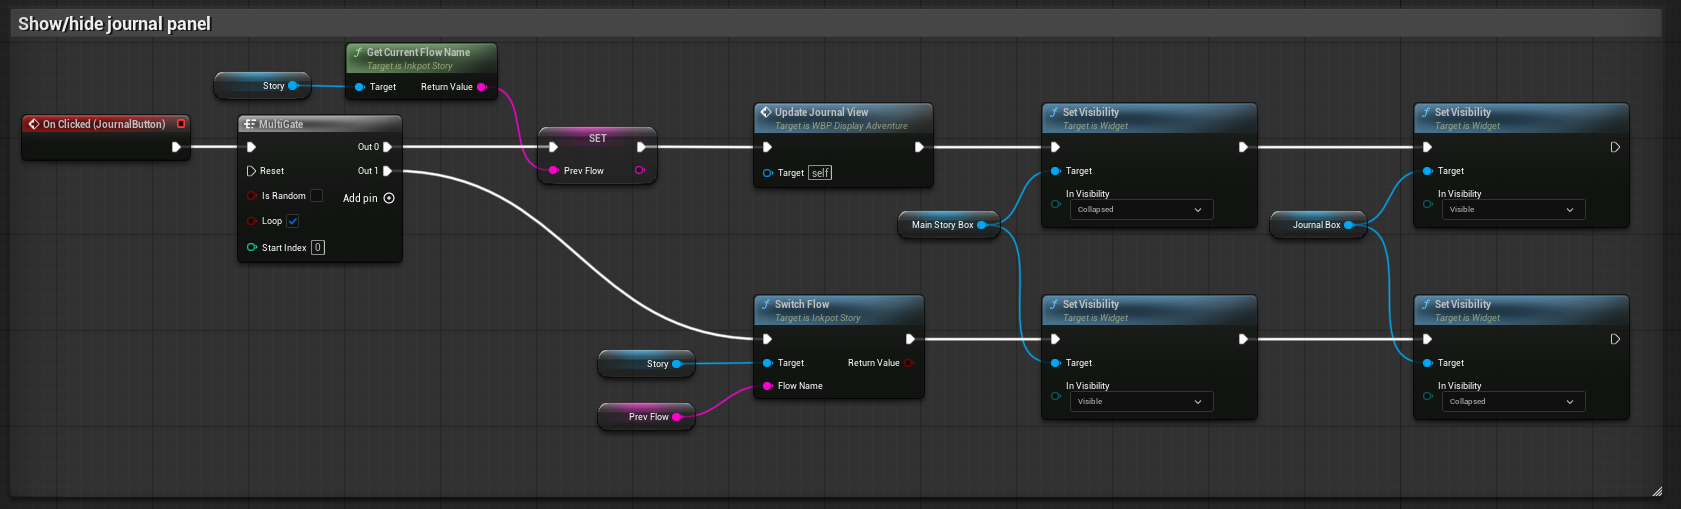
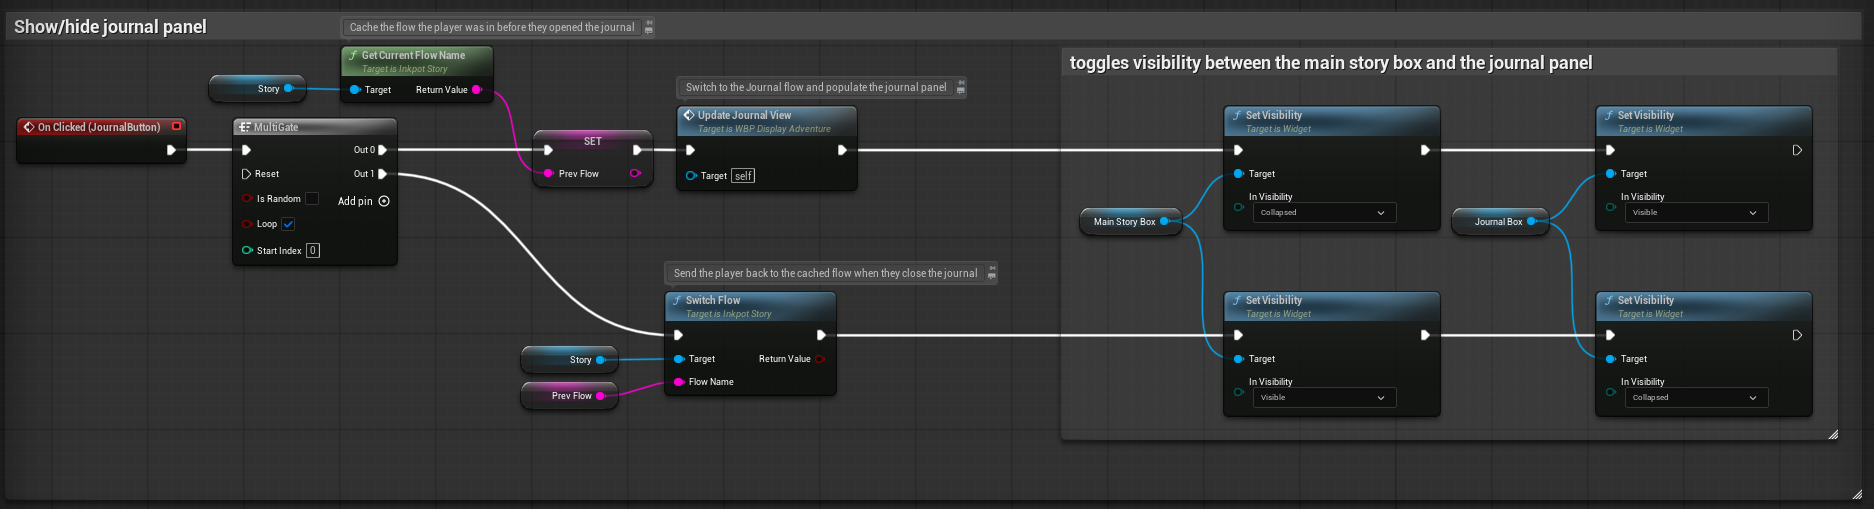
Adventure Readme: commented screenshots and boxes
Added commented screenshots to the Adventure Readme, and styled the "Inkpot Concept" sections as "Tips" in Github-Flavored Markdown so they're easier to distinguish.

diff --git a/README-AdventureDemo.md b/README-AdventureDemo.md
@@ -82,48 +82,46 @@ The best way to avoid assumptions about the route a player has taken through the
 
 If you take a look at `AdventureDemo.ink`, you'll see that Quest LISTs are being queried throughout--especially in `if` statements at the tops of knots and stitches. This is the only flow control happening within ink: Unreal directs the flow to the knot or stitch, and these `if` statements route to the appropriate section based on the player's LIST states.
 
----
-
-**Inkpot Concept: Setting Variables**
-For the most part, the various state LISTs in this demo are being handled within Ink: new states are added when particular lines of Ink are run, and states are queried to direct to the correct content in a knot or stitch. Handling Ink variables in Ink should be preferred where possible, because it's usually simpler to manage.
-
-But where needed, Ink variables can be edited directly from Unreal. The Adventure Demo level blueprint is using Inkpot nodes to directly change variables in Ink in two places.
-
-Our first directly-set variable is `clocktime`. The Ink runtime has no way to access the system clock, so while we use the variable in Ink, we can't set it there. We declare it in Ink as an empty string, then update it from the level BP to a string of the player's current system time whenever they speak to Emmy.
-
-We do this with a `set value` node:
-
-![Screenshot of the Adventure Demo Level Blueprint showing a Set Value node connected to a Switch Flow to Path node. A collapsed "Get Time String" graph pulls the system clock time as a string and sets the Clocktime variable](Documentation/AD_SetValueClocktime.png)
-
-The second place we set variables directly is when the player overlaps the `Trigger Capsules` for the three shapes. `On Event Begin Overlap` nodes for these capsules are calling a custom `Add to list` function and adding each shape to the player's inventory (an Ink LIST) before switching to the FindShapes flow to show the player the appropriate quest text:
-
-![Screenshot from the Adventure Demo level blueprint, showing Inkpot Add to List nodes connected to On Actor Begin Overlap events for the trigger capsules surrounding the three shapes in the level. Each one adds the relevant shape from the Items list to the InventoryItems list](Documentation/AD_AddToList.png)
-
-Here's the `Add to List` function, which uses the Inkpot functions `Get List`, `To String Array`, and `Make Inkpot List from String Array` to pull the list from Ink and adds the indicated item:
-
-![](Documentation/AD_AddToListFunction.png)
-
-Once the player gets all three shapes, `QuestFindShapes.GotShapes` should be set to `true`. We could do this from Unreal by querying the Inventory LIST and checking if all three shapes are present--but since the blueprint always directs to `Quests.FindShapes_quest` after the player interacts with a shape, it's easier to set the state within Ink instead of doing additional round-trips to Unreal and back:
-
-```ink
-= FindShapes_quest
-
-{
-    - QuestFindShapes ? ToldBlue:
-        [...]
-    - InventoryItems ? (cone, cube, sphere):
-        ~ QuestFindShapes += GotShapes
-        [...]
-    - QuestFindShapes ? BlueAsked:
-        [...]
-}
-
--> DONE
-```
-
-**In summary**: manage Ink variables within Ink wherever practical--but don't be afraid to use Inkpot when a variable needs to change based on interactions with the world (as in our shapes), or when Ink lacks the functionality to do what you need. 
-
----
+>[!TIP]
+>**Inkpot Concept: Setting Variables**
+>
+>For the most part, the various state LISTs in this demo are being handled within Ink: new states are added when particular lines of Ink are run, and states are queried to direct to the correct content in a knot or stitch. Handling Ink variables in Ink should be preferred where possible, because it's usually simpler to manage.
+>
+>But where needed, Ink variables can be edited directly from Unreal. The Adventure Demo level blueprint is using Inkpot nodes to directly change variables in Ink in two places.
+>
+>Our first directly-set variable is `clocktime`. The Ink runtime has no way to access the system clock, so while we use the variable in Ink, we can't set it there. We declare it in Ink as an empty string, then update it from the level BP to a string of the player's current system time whenever they speak to Emmy.
+>
+>We do this with a `set value` node:
+>
+>![Screenshot of the Adventure Demo Level Blueprint showing a Set Value node connected to a Switch Flow to Path node. A collapsed "Get Time String" graph pulls the system clock time as a string and sets the Clocktime variable](Documentation/AD_SetValueClocktime.png)
+>
+>The second place we set variables directly is when the player overlaps the `Trigger Capsules` for the three shapes. `On Event Begin Overlap` nodes for these capsules are calling a custom `Add to list` function and adding each shape to the player's inventory (an Ink LIST) before switching to the FindShapes flow to show the player the appropriate quest text:
+>
+>![Screenshot from the Adventure Demo level blueprint, showing Inkpot Add to List nodes connected to On Actor Begin Overlap events for the trigger capsules surrounding the three shapes in the level. Each one adds the relevant shape from the Items list to the InventoryItems list](Documentation/AD_AddToList.png)
+>
+>Here's the `Add to List` function, which uses the Inkpot functions `Get List`, `To String Array`, and `Make Inkpot List from String Array` to pull the list from Ink and adds the indicated item:
+>
+>![Screenshot of a Blueprint function that adds an item to an Ink list using Inkpot](Documentation/AD_AddToListFunction.png)
+>
+>Once the player gets all three shapes, `QuestFindShapes.GotShapes` should be set to `true`. We could do this from Unreal by querying the Inventory LIST and checking if all three shapes are present--but since the blueprint always directs to `Quests.FindShapes_quest` after the player interacts with a shape, it's easier to set the state within Ink instead of doing additional round-trips to Unreal and back:
+>
+>```ink
+>= FindShapes_quest
+>
+>{
+>    - QuestFindShapes ? ToldBlue:
+>        [...]
+>   - InventoryItems ? (cone, cube, sphere):
+>       ~ QuestFindShapes += GotShapes
+>       [...]
+>   - QuestFindShapes ? BlueAsked:
+>       [...]
+>}
+>
+>-> DONE
+>```
+>
+>**In summary**: manage Ink variables within Ink wherever practical--but don't be afraid to use Inkpot when a variable needs to change based on interactions with the world (as in our shapes), or when Ink lacks the functionality to do what you need. 
 
 ### Interactions are knots and stitches
 
@@ -139,21 +137,19 @@ This design pattern connects each individual trigger event in the game world to 
 
 When one of these events happens in the game, Unreal will use the knot or stitch to pull the correct content. The player's path through that section of the Ink file will be managed within Ink. In order to take full advantage of flow management, each trigger (or related group of triggers, such as picking up shapes) should have its own flow.
 
----
+>[!TIP]
+>**Inkpot Concept: Switch Flow, Switch Path, and Switch Flow To Path**
+>
+>[The Inkpot Demo Readme](README.md) documents how to use flows to run separate sections of the Ink file in parallel.
+>
+>Players can move back and forth between flows and Inkpot will save their place so they can pick up where they left off when they return.
+>
+>You can switch flows using the Inkpot `Switch Flow` node, and you can direct the current flow to a particular knot or stitch using `Choose Path`. But the Inkpot Demo level has a handy function that will do both at once, called `Switch Flow To Path`:
+>
+>![A screenshot of the Switch Flow To Path function from the Inkpot Demo level, which switches the flow, sets the new path, and then continues](Documentation/AD_SwitchFlowToPathFunction.png)
+>
+>`Switch Flow To Path` is a handy shortcut you'll probably want to add to your project--the Adventure Demo design patterns use it often.
 
-**Inkpot Concept: Switch Flow, Switch Path, and Switch Flow To Path**
-
-[The Inkpot Demo Readme](README.md) documents how to use flows to run separate sections of the Ink file in parallel.
-
-Players can move back and forth between flows and Inkpot will save their place so they can pick up where they left off when they return.
-
-You can switch flows using the Inkpot `Switch Flow` node, and you can direct the current flow to a particular knot or stitch using `Choose Path`. But the Inkpot Demo level has a handy function that will do both at once, called `Switch Flow To Path`:
-
-![A screenshot of the Switch Flow To Path function from the Inkpot Demo level, which switches the flow, sets the new path, and then continues](Documentation/AD_SwitchFlowToPathFunction.png)
-
-`Switch Flow To Path` is a handy shortcut you'll probably want to add to your project--the Adventure Demo design patterns use it often.
-
----
 
 #### Knot or Stitch?
 In the demo, we are using both knots and stitches as interaction paths accessed directly from Unreal.
@@ -177,37 +173,33 @@ The Dialogue pattern in this demo is using trigger volumes to initiate dialogue 
 
 ![A screenshot of the level BP, showing OnEventBeginOverlap and EndOverlap nodes that call SwitchFlowToPath functions for each NPC's flow and knot](Documentation/AD_SwitchFlowToPathLevelBP.png)
 
----
-
-**Inkpot Concept: Switch Flow vs Switch Flow to Path**
-Flows allow Inkpot to keep track of multiple threads within the story--such as multiple NPC conversations--so that players can move between sections of the narrative without losing their place.
-
-In this example, however, we're using `Switch Flow To Path` for most of our flow switches, which always directs the flow to the top of the associated knot or stitch, rather than continuing where the player left off.
-
-Because the NPC knots contain multiple conversations, we want the flow to be directed back to the routing logic at the top of the knot to pick the appropriate conversation based on the player's LIST states. The same applies to pulling the correct quest text.
-
-But this demo doesn't lock player movement, so players can wander off in the middle of conversations--and when they come back, Ink will start the conversation again if the player's LIST states haven't changed.
-
-If you look at the `NPC_Emmy.intro` stitch, you'll see we're using the named line `EmmyGivesJournal` as a checkpoint so that Emmy doesn't introduce herself again if the player moves away after the intro.
-
----
-
 The logic to update the UI with each line of dialogue and handle player choices lives in `WBP_Display_Adventure`, and is largely unchanged from the Inkpot Demo level.
 
----
+>[!TIP]
+>**Inkpot Concept: Switch Flow vs Switch Flow to Path**
+>
+>Flows allow Inkpot to keep track of multiple threads within the story--such as multiple NPC conversations--so that players can move between sections of the narrative without losing their place.
+>
+>In this example, however, we're using `Switch Flow To Path` for most of our flow switches, which always directs the flow to the top of the associated knot or stitch, rather than continuing where the player left off.
+>
+>Because the NPC knots contain multiple conversations, we want the flow to be directed back to the routing logic at the top of the knot to pick the appropriate conversation based on the player's LIST states. The same applies to pulling the correct quest text.
+>
+>But this demo doesn't lock player movement, so players can wander off in the middle of conversations--and when they come back, Ink will start the conversation again if the player's LIST states haven't changed.
+>
+>If you look at the `NPC_Emmy.intro` stitch, you'll see we're using the named line `EmmyGivesJournal` as a checkpoint so that Emmy doesn't introduce herself again if the player moves away after the intro.
 
-**Inkpot Concept: Reading from tags**
-Inkpot contains nodes to read tags from Ink and use them within Unreal Blueprints. We have an example of this in the `Linetime: ` tags in AdventureDemo.ink.
-
-Inkpot lines can differ in length, which means they take different amounts of time to read.
-
-To handle this, there's logic in `WBP_Display_Adventure` to pull in the `Linetime` tag from Ink (Using the `Get Tag with Prefix and Strip` function, which, when given the prefix `Linetime: `, turn `Linetime: 2.5` to `2.5`) and pass the value into the `Set Timer by Event` node that times how long to show each line.
-
-![screenshot of a section of the WBP_Display_Adventure Blueprint, which is pulling the "Linetime: N" tags from the Ink file and using them to set the timer for how long to show each line. A MAX node sets a minumum line time of two seconds](Documentation/AD_LineTime.png)
-
-(The `max` node returns the _maximum_ of its two inputs, so the linetime will always be set to the longer of 2 seconds, or the time specified by the Line Tag. This default ensures that the line time won't be set to 0 if the tag is missing).
-
----
+>[!TIP]
+>**Inkpot Concept: Reading from tags**
+>
+>Inkpot contains nodes to read tags from Ink and use them within Unreal Blueprints. We have an example of this in the `Linetime: ` tags in AdventureDemo.ink.
+>
+>Inkpot lines can differ in length, which means they take different amounts of time to read.
+>
+>To handle this, there's logic in `WBP_Display_Adventure` to pull in the `Linetime` tag from Ink (Using the `Get Tag with Prefix and Strip` function, which, when given the prefix `Linetime: `, turn `Linetime: 2.5` to `2.5`) and pass the value into the `Set Timer by Event` node that times how long to show each line.
+>
+>![screenshot of a section of the WBP_Display_Adventure Blueprint, which is pulling the "Linetime: N" tags from the Ink file and using them to set the timer for how long to show each line. A MAX node sets a minumum line time of two seconds](Documentation/AD_LineTime.png)
+>
+>(The `max` node returns the _maximum_ of its two inputs, so the linetime will always be set to the longer of 2 seconds, or the time specified by the Line Tag. This default ensures that the line time won't be set to 0 if the tag is missing).
 
 ### Player Journal
 
@@ -237,7 +229,7 @@ Note: you need to differentiate the stitch name from the list item or the Ink in
 
 Add the text of your entry to this stitch, and end with a DONE divert.
 
-**Formatting note**: For demo purposes, the function ToTextFormat in WBP_Display_Adventure has a hard-coded Replace node to turn `<br>` into an additional newline, to make these entries easier to read. In your game, you'll almost certainly want to use a Rich Text box instead of MultiLine Text, and create a formatting style to double-space between paragraphs.
+**Formatting note**: For demo purposes, the function ToTextFormat in WBP_Display_Adventure has a hard-coded Replace node to turn `<br>` into an additional newline, to make these entries easier to read.
 
 #### Add it to the journal menu
 
@@ -262,14 +254,12 @@ Like so:
 
 #### Unreal Logic
 
----
-
-**Inkpot Concept: Flows aren't simultaneous**
-[The Inkpot Demo Readme](README.md) notes that flows allow us to run threads of the story "run at the same time," but it's important to note that Inkpot does not currently allow players to be in two flows _simultaneously_. Instead, Inkpot saves the player's place in each flow, and when they return to that flow, they pick up where they left off.
-
-The Journal implementation takes advantage of this to manage what happens when the player closes the journal. When the player opens the Journal panel, they switch into the Journal flow. When they close it, they return to the flow they were in previously and pick up where they left off.
-
----
+>[!TIP]
+>**Inkpot Concept: Flows aren't simultaneous**
+>
+>[The Inkpot Demo Readme](README.md) notes that flows allow us to run threads of the story "run at the same time," but it's important to note that Inkpot does not currently allow players to be in two flows _simultaneously_. Instead, Inkpot saves the player's place in each flow, and when they return to that flow, they pick up where they left off.
+>
+>The Journal implementation takes advantage of this to manage what happens when the player closes the journal. When the player opens the Journal panel, they switch into the Journal flow. When they close it, they return to the flow they were in previously and pick up where they left off.
 
 If you look at the Blueprint graph in `WBP_Display_Adventure`, you'll see the logic for the journal in two sections:
 
@@ -283,22 +273,23 @@ The "Update JournalEntry view with selected entry" section handles the logic for
 
 ![A screenshot from WBP_Display_Adventure, which contains logic for switching between journal entries](Documentation/AD_UpdateJournalEntry.png)
 
-The UpdateJournalView function populates the JournalEntryList panel with the entries the player can select:
+In addition to adding the selected entry text to the JournalEntry panel, the UpdateJournalView function populates the JournalEntryList panel with the entries the player can select:
 
 ![A screenshot from the UpdateJournalView function in WBP_Display_Adventure, which contains logic for displaying journal entry text and the journal entry menu](Documentation/AD_UpdateJournalView.png)
 
----
 
-**Inkpot Concept: Story Change Delegate**
-When the player gets access to new journal entries, a notification will pop up in the UI.
 
-This is triggered within `WBP_Display_Adventure`, using a Story Change Delegate:
+>[!TIP]
+>**Inkpot Concept: Story Change Delegate**
+>
+>When the player gets access to new journal entries, a notification will pop up in the UI.
+>
+>This is triggered within `WBP_Display_Adventure`, using a Story Change Delegate:
+>
+>![screenshot from `WBP_Display_Adventure` which uses a Set On Variable Change inkpot node to show a notification whenever the `JournalEntries` LIST is updated](Documentation/AD_ChangeDelegate.png)
+>
+>This allows game logic in Unreal (in this case, the Widget Blueprint) to get notified when an Ink variable changes, and kicks off a custom event--which in turn displays the "Journal updated" widget for two seconds.
 
-![screenshot from `WBP_Display_Adventure` which uses a Set On Variable Change inkpot node to show a notification whenever the `JournalEntries` LIST is updated](Documentation/AD_ChangeDelegate.png).
-
-This allows game logic in Unreal (in this case, the Widget Blueprint) to get notified when an Ink variable changes, and kicks off a custom event--which in turn displays the "Journal updated" widget for two seconds.
-
----
 
 ### Quests
 
